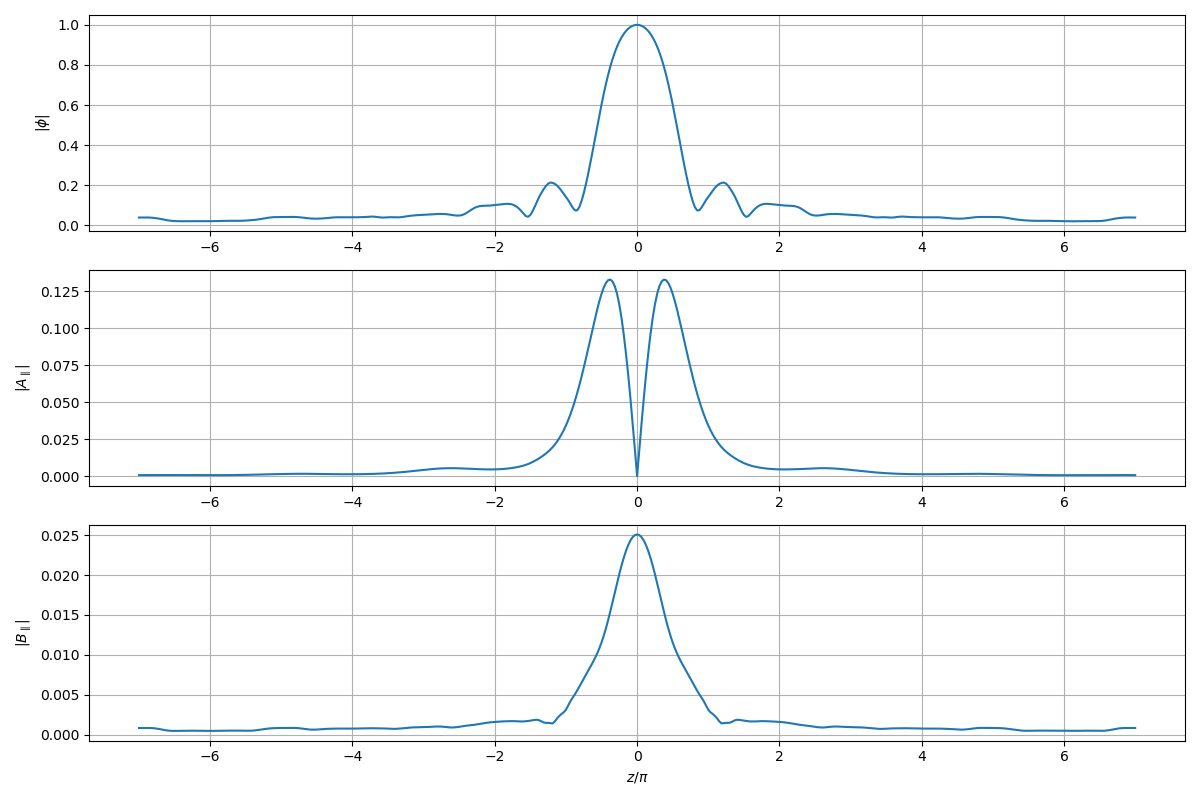
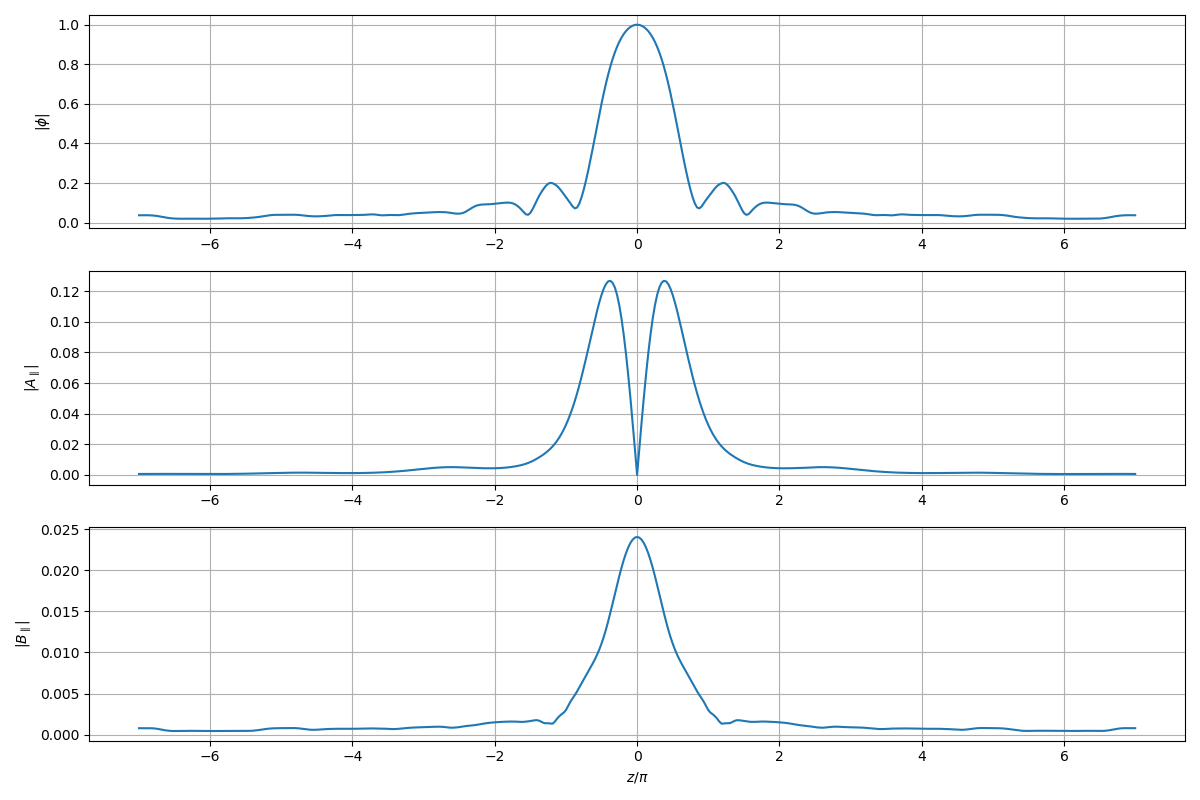
Results for src h beta scan, with time increased by resolved beta=1.2%

diff --git a/test_cbc_beta_scan/postprocess_beta_scans.py b/test_cbc_beta_scan/postprocess_beta_scans.py
@@ -334,12 +334,12 @@ if __name__ == "__main__":
 
     postprocess_folder(mps.stella_src_h_beta_scan_ky_05_np2_nt32_nvpa18_nmu12_zupw0_fapar1_fbpar1_str_mirror_implicit_folder, "stella")
     # postprocess_folder(mps.stella_src_h_beta_scan_ky_05_np2_nt64_nvpa18_nmu12_zupw0_fapar1_fbpar1_str_mirror_implicit_folder, "stella")
-    # postprocess_folder(mps.stella_src_h_beta_scan_ky_05_np4_nt64_nvpa18_nmu12_zupw0_fapar1_fbpar1_str_mirror_implicit_folder, "stella")
+    postprocess_folder(mps.stella_src_h_beta_scan_ky_05_np4_nt64_nvpa18_nmu12_zupw0_fapar1_fbpar1_str_mirror_implicit_folder, "stella")
     # postprocess_folder(mps.stella_src_h_beta_scan_ky_05_np4_nt32_nvpa18_nmu12_zupw0_fapar1_fbpar1_str_mirror_implicit_folder, "stella")
-    #postprocess_folder(mps.gs2_beta_scan_ky_05_np2_nt32_ng8_ne18_fapar1_fbpar1_folder, "gs2")
+    # postprocess_folder(mps.gs2_beta_scan_ky_05_np2_nt32_ng8_ne18_fapar1_fbpar1_folder, "gs2")
     #postprocess_folder(mps.gs2_beta_scan_ky_05_np2_nt64_ng8_ne18_fapar1_fbpar1_folder, "gs2")
-    postprocess_folder(mps.gs2_beta_scan_ky_05_np4_nt32_ng8_ne18_fapar1_fbpar1_folder, "gs2")
-    #postprocess_folder(mps.gs2_beta_scan_ky_05_np4_nt64_ng8_ne18_fapar1_fbpar1_folder, "gs2")
+    # postprocess_folder(mps.gs2_beta_scan_ky_05_np4_nt32_ng8_ne18_fapar1_fbpar1_folder, "gs2")
+    postprocess_folder(mps.gs2_beta_scan_ky_05_np4_nt64_ng8_ne18_fapar1_fbpar1_folder, "gs2")
     # postprocess_folder(mps.gs2_beta_scan_ky_05_np4_nt64_ng12_ne24_fapar1_fbpar0_folder, "gs2")
     # postprocess_folder(mps.gs2_beta_scan_ky_05_np3_nt48_ng8_ne18_fapar1_fbpar0_folder, "gs2")
     # postprocess_folder(mps.gs2_beta_scan_ky_05_np2_nt32_ng8_ne18_fapar1_fbpar0_folder, "gs2")
